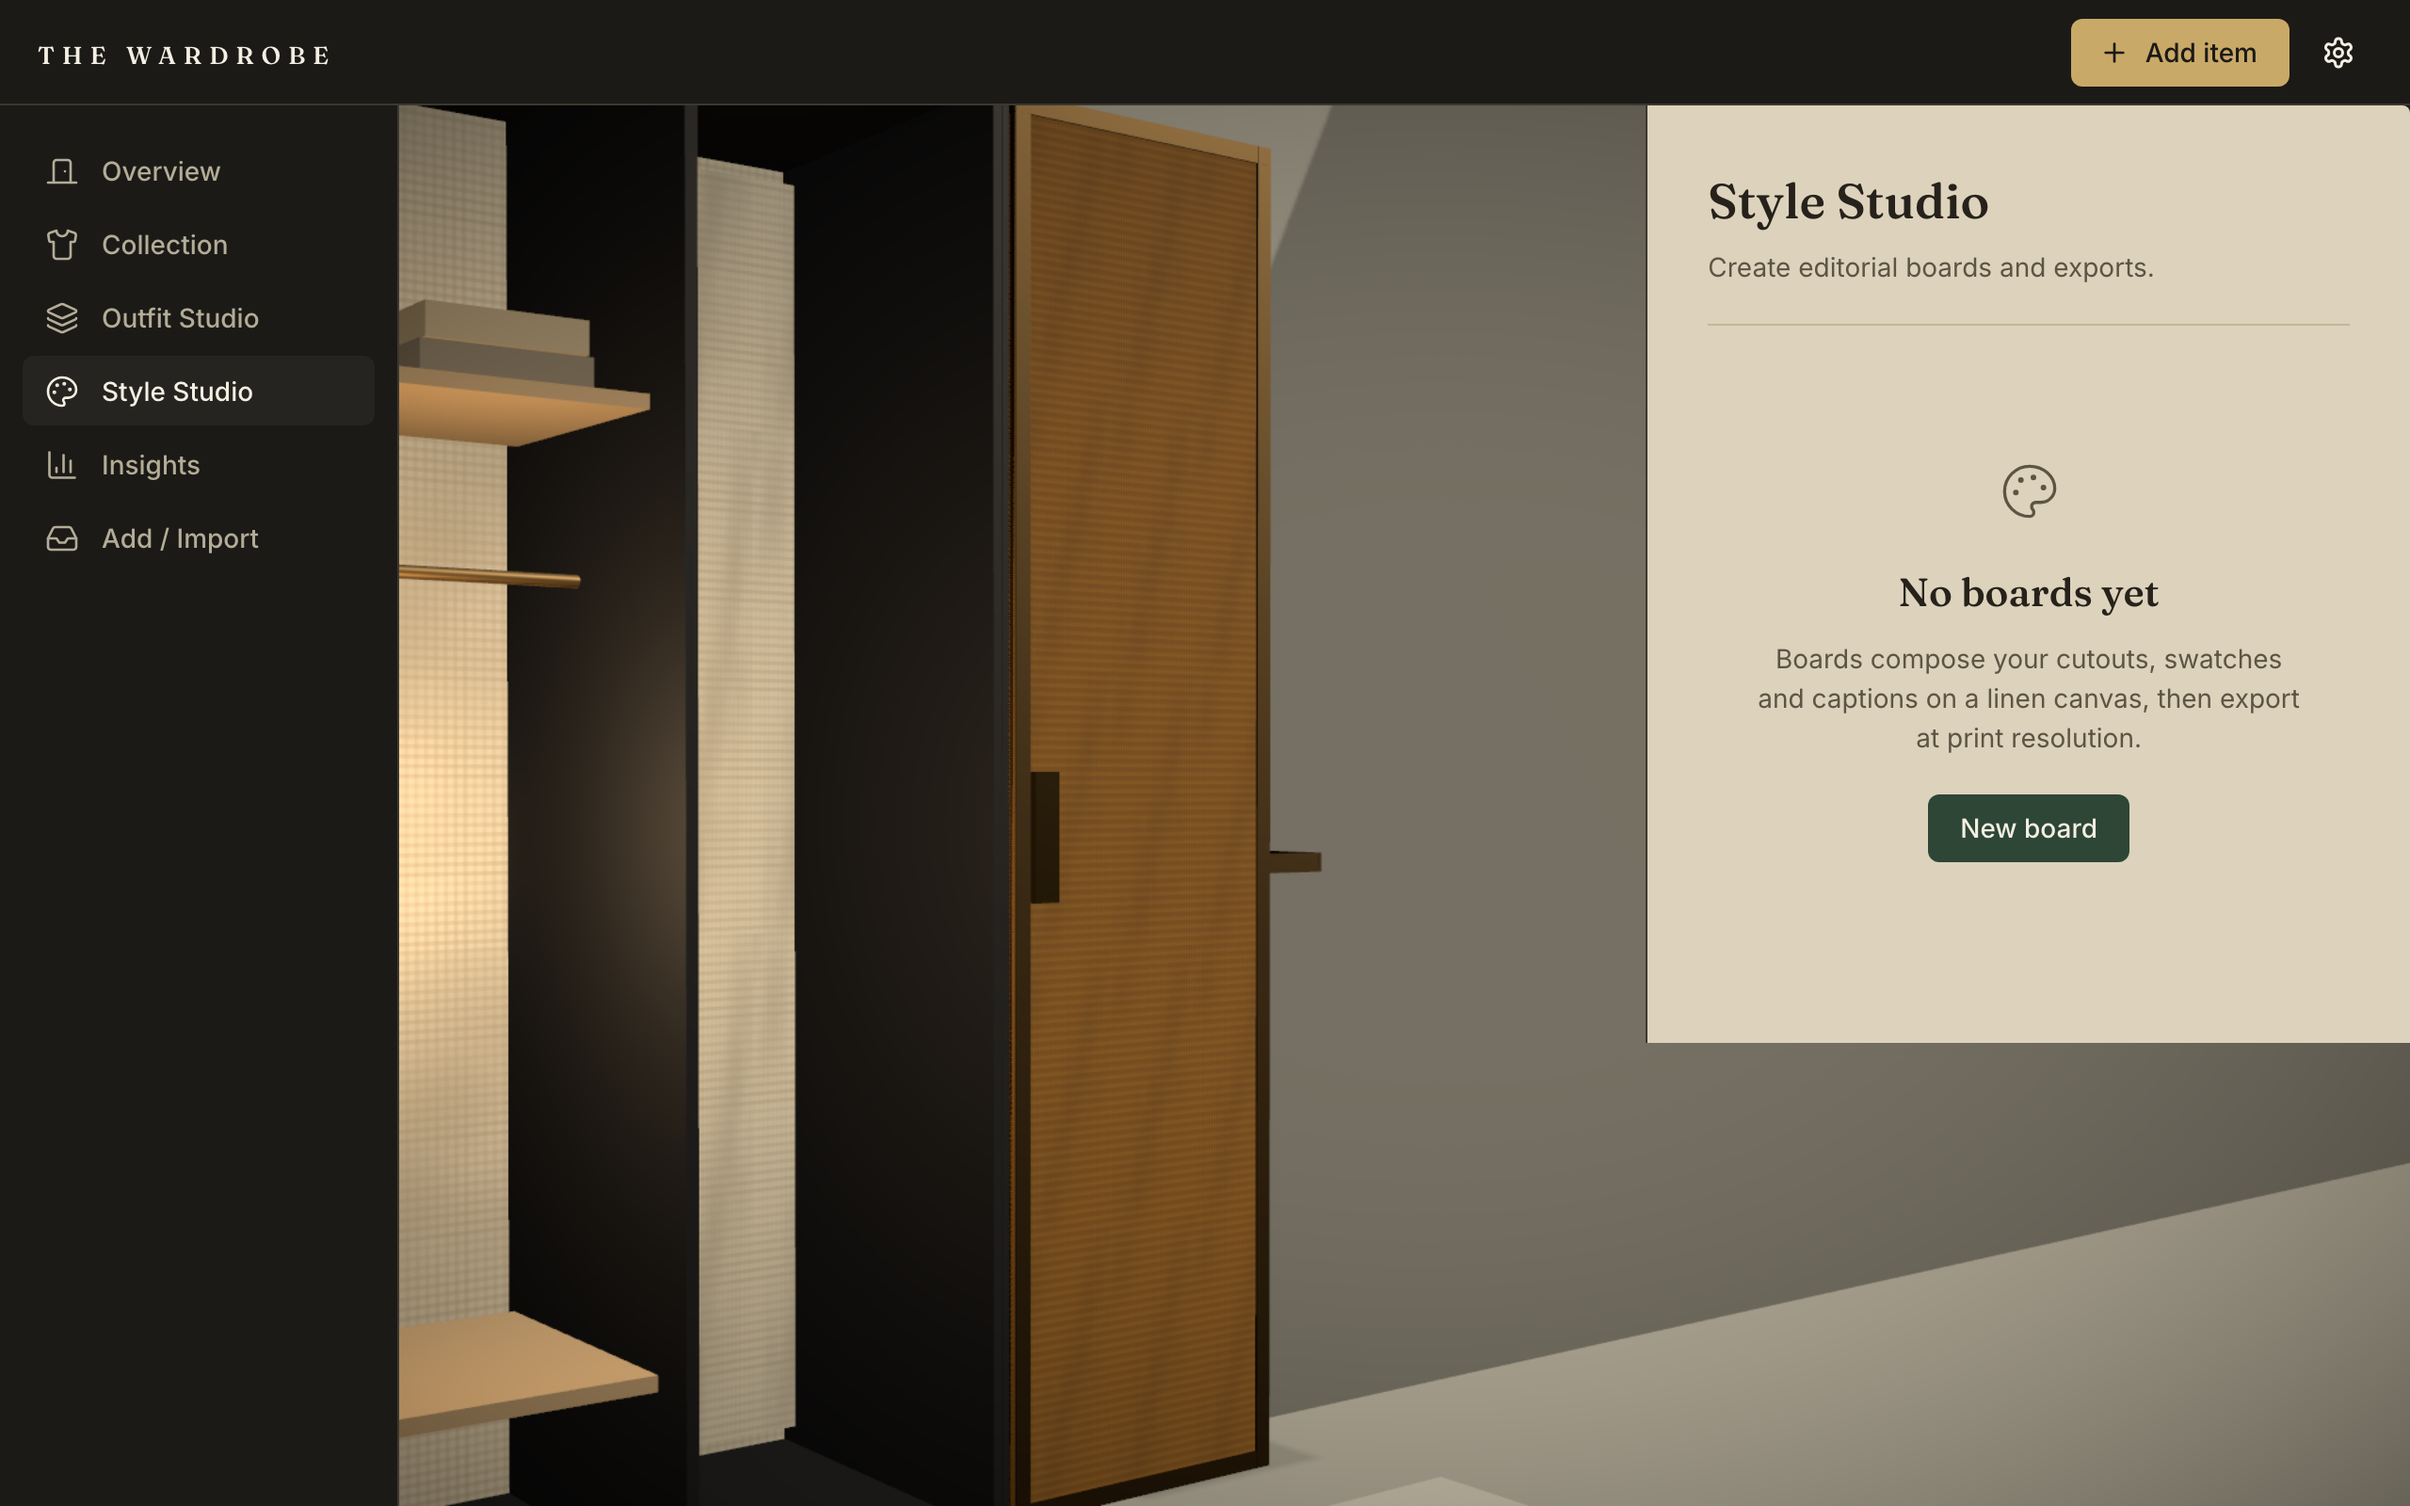
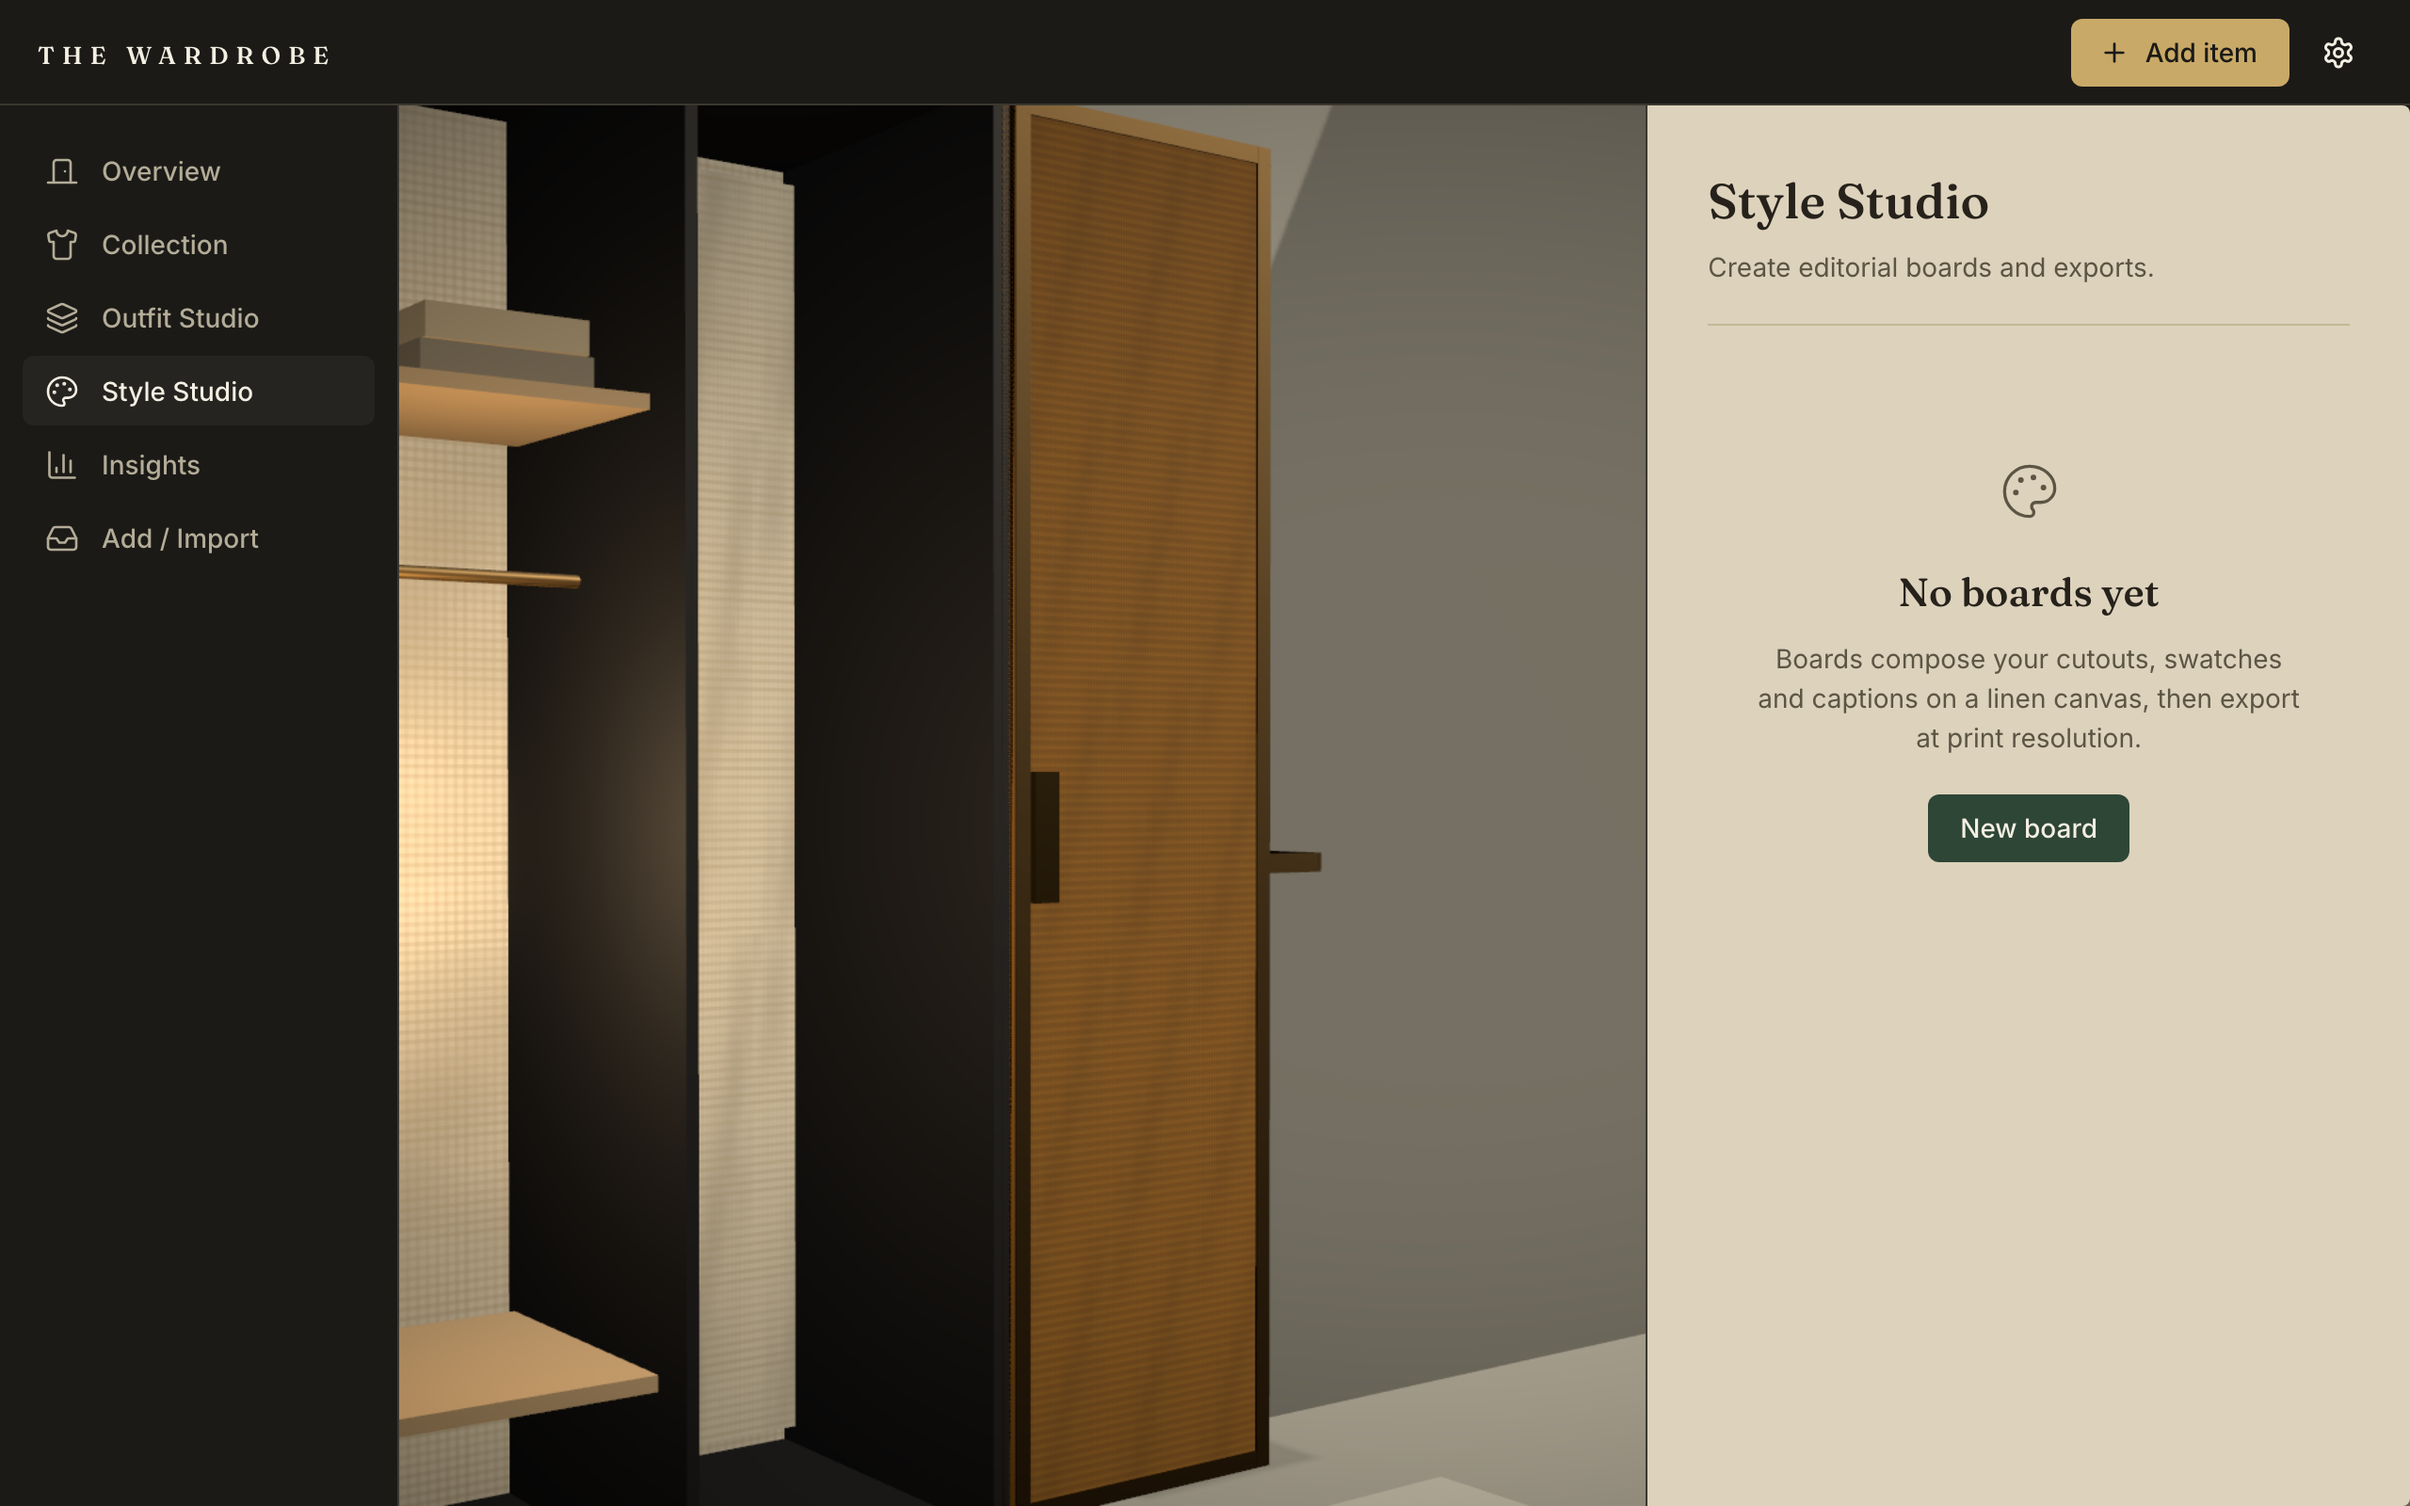
feat(revamp): real mirror — planar reflection in the Outfit Studio
- The leaning mirror now renders a true planar reflection
  (MeshReflectorMaterial, 512px pass with soft blur); reduced quality
  keeps the cheap physical glass — the extra render pass is the most
  expensive thing in the scene and stays opt-out-able
- Scene store gains a ?quality=high|auto|reduced override (users and
  tests both benefit); the interruption probe runs at reduced quality
  and is now velocity-normalized (a teleport is infinite velocity at any
  sampling rate — fixed-step thresholds broke under throttled rAF)
- Fix: the route-entrance wrapper broke percentage min-heights — page
  roots lost their full-height workspace columns; flex chain restores it

Changed region(s): [[0.6562, 0.6875, 1.0, 1.0]]

diff --git a/src/revamp/scene/lantern/Surroundings.tsx b/src/revamp/scene/lantern/Surroundings.tsx
@@ -1,7 +1,9 @@
 import { useMemo } from 'react'
 import * as THREE from 'three'
+import { MeshReflectorMaterial } from '@react-three/drei'
 import { LAN } from './dims'
 import { useLanternMaterials } from './materials'
+import { useScene } from '../../stores/scene'
 
 /**
  * The reference room: warm-grey wall, pale floor, flat woven rug, a raking
@@ -38,6 +40,38 @@ function useLightPatch(): THREE.CanvasTexture {
   }, [])
 }
 
+function LeaningMirror({ frame, fallback }: { frame: THREE.Material; fallback: THREE.Material }) {
+  const quality = useScene((s) => s.quality)
+  return (
+    <group position={[LAN.mirrorX, 0, 0.45]} rotation={[-0.075, 0.18, 0]}>
+      <mesh material={frame} position={[0, 0.95, 0]} castShadow>
+        <boxGeometry args={[0.62, 1.9, 0.03]} />
+      </mesh>
+      {quality === 'reduced' ? (
+        <mesh material={fallback} position={[0, 0.95, 0.017]}>
+          <boxGeometry args={[0.56, 1.84, 0.006]} />
+        </mesh>
+      ) : (
+        <mesh position={[0, 0.95, 0.02]}>
+          <planeGeometry args={[0.56, 1.84]} />
+          <MeshReflectorMaterial
+            mirror={0.9}
+            resolution={512}
+            blur={[160, 40]}
+            mixBlur={0.55}
+            mixStrength={1.4}
+            depthScale={0.25}
+            minDepthThreshold={0.6}
+            color="#d2d6da"
+            metalness={0.45}
+            roughness={0.35}
+          />
+        </mesh>
+      )}
+    </group>
+  )
+}
+
 export function Surroundings() {
   const m = useLanternMaterials()
   const patch = useLightPatch()
@@ -69,15 +103,9 @@ export function Surroundings() {
         <boxGeometry args={[4.4, 0.012, 2.4]} />
       </mesh>
 
-      {/* leaning mirror — Outfit Studio */}
-      <group position={[LAN.mirrorX, 0, 0.45]} rotation={[-0.075, 0.18, 0]}>
-        <mesh material={m.brass} position={[0, 0.95, 0]} castShadow>
-          <boxGeometry args={[0.62, 1.9, 0.03]} />
-        </mesh>
-        <mesh material={m.mirror} position={[0, 0.95, 0.017]}>
-          <boxGeometry args={[0.56, 1.84, 0.006]} />
-        </mesh>
-      </group>
+      {/* leaning mirror — Outfit Studio. A REAL planar reflection (one
+          extra render pass); reduced quality keeps the cheap glass. */}
+      <LeaningMirror frame={m.brass} fallback={m.mirror} />
 
       {/* wall-mounted brass post tray — Add / Import */}
       <group position={[LAN.trayX, LAN.trayY, 0.12]}>

diff --git a/src/revamp/stores/scene.ts b/src/revamp/stores/scene.ts
@@ -33,6 +33,12 @@ interface SceneState {
 
 const now = () => performance.now() / 1000
 
+function resolveQuality(): SceneQuality {
+  if (typeof window === 'undefined') return 'auto'
+  const q = new URLSearchParams(window.location.search).get('quality')
+  return q === 'high' || q === 'reduced' || q === 'auto' ? q : 'auto'
+}
+
 function resolveFullMotion(): boolean {
   if (typeof window === 'undefined') return true
   const override = new URLSearchParams(window.location.search).get('motion')
@@ -53,7 +59,7 @@ export const useScene = create<SceneState>((set, get) => ({
   fullMotion: resolveFullMotion(),
   cutSerial: 0,
   paused: false,
-  quality: 'auto',
+  quality: resolveQuality(),
 
   routeChanged: (pathname) => {
     const target = stationForPath(pathname)

diff --git a/src/revamp/app/layouts/AppShell.module.css b/src/revamp/app/layouts/AppShell.module.css
@@ -138,8 +138,16 @@
 
 /* —— route entrance: the 2D answer to the camera settle —— */
 .routeIn {
+  /* flex chain keeps percentage heights resolving for page roots */
   min-height: 100%;
+  display: flex;
+  flex-direction: column;
   animation: routeIn 340ms var(--ease-ui);
+}
+
+.routeIn > * {
+  flex: 1 0 auto;
+  width: 100%;
 }
 
 @keyframes routeIn {
